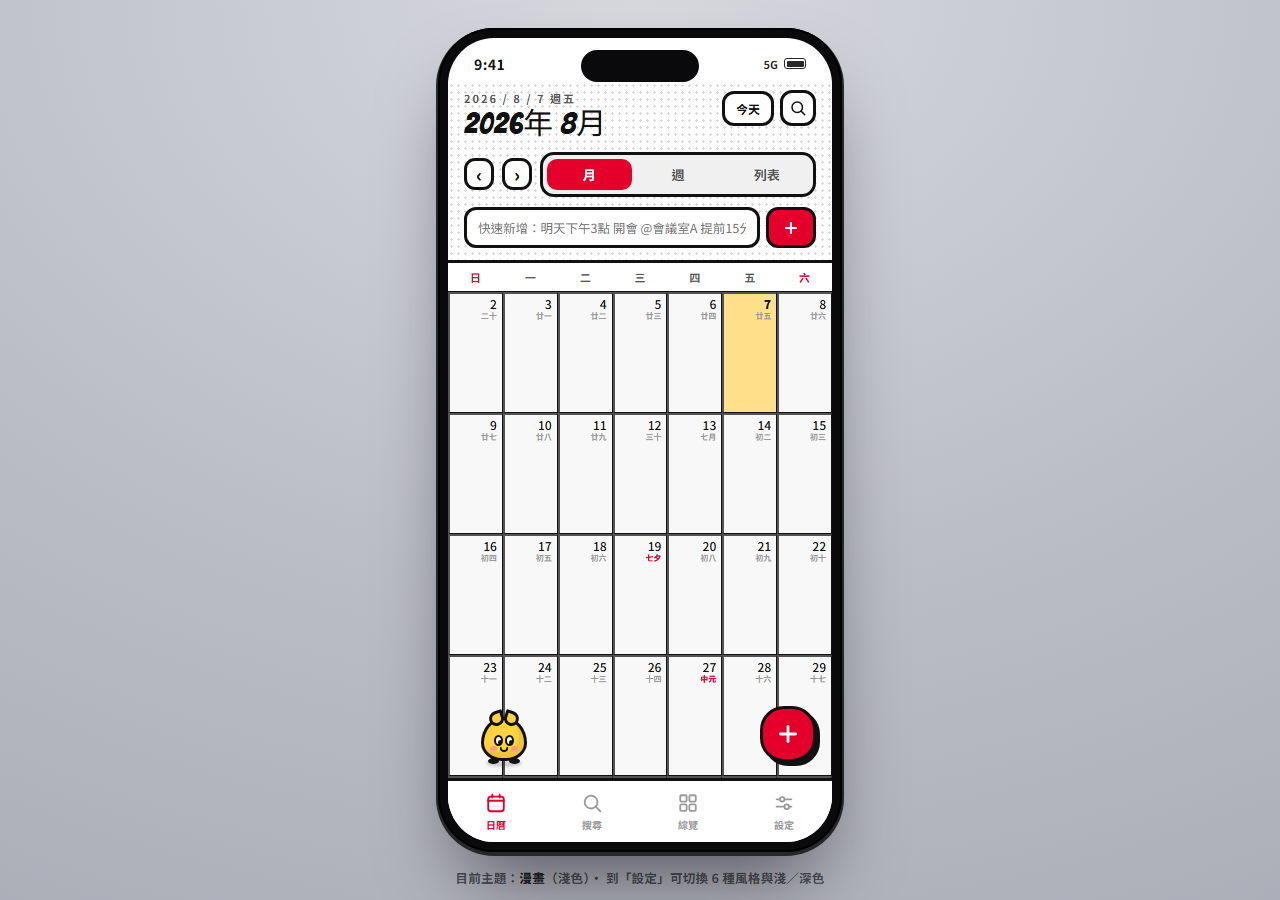
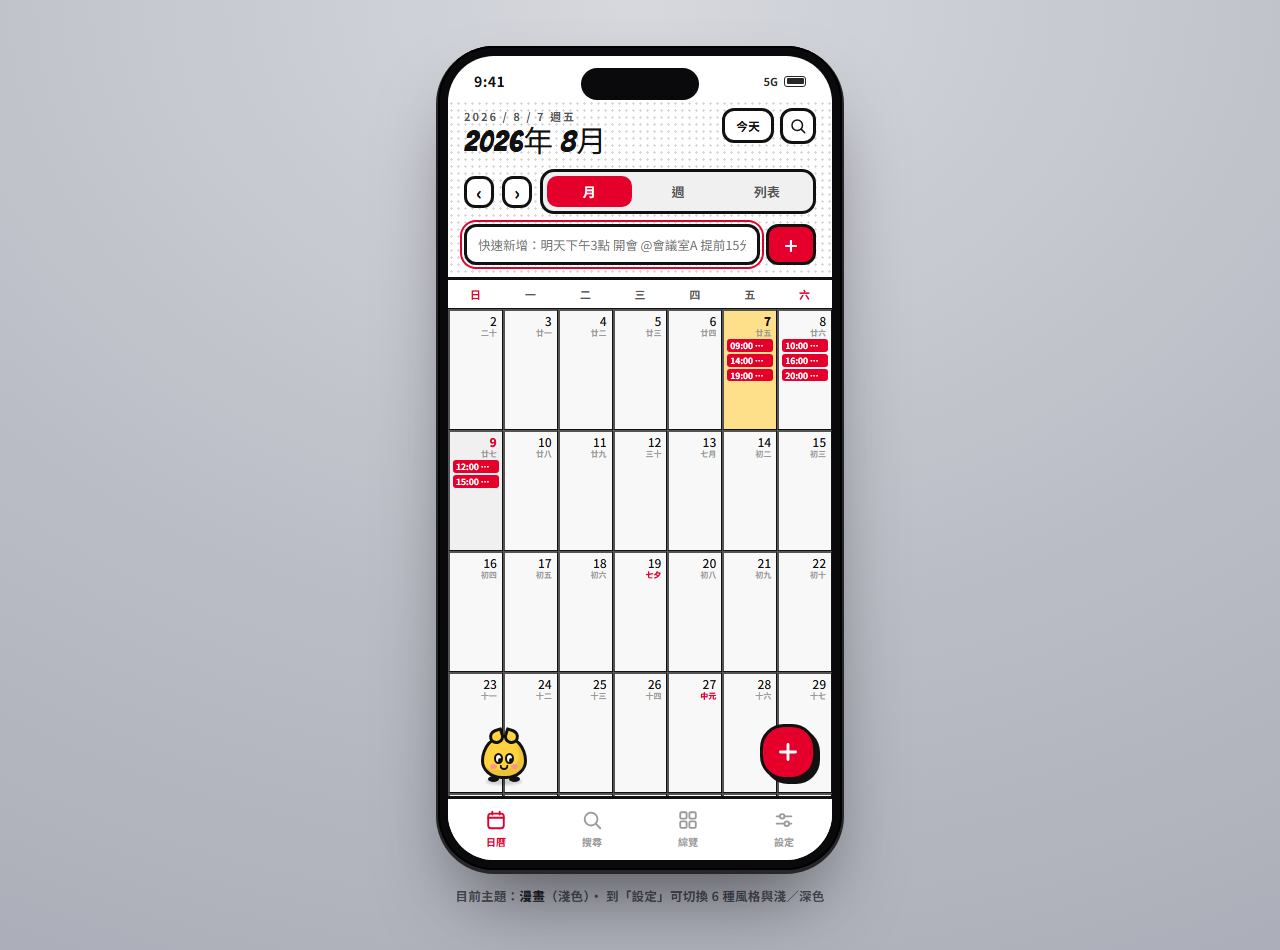
docs(readme): populate the calendar and add the week view
The month shot was an empty calendar, which showed the chrome but not
the product. It now carries real events, entered through the app's own
natural-language quick add, plus the 7-column week grid.

Note on method: the settings screen lists 開發／示範資料控制 under
尚未搬移, so the demo-data importer is not in this build to use — the
events were typed into the quick-add field instead, which exercises a
shipped feature rather than a scaffold.

diff --git a/README.md b/README.md
@@ -8,8 +8,13 @@ DayPop 是以手機為主的個人日曆 PWA。目前正在把 Claude Design 匯
 
 ![月檢視](docs/screenshots/month.png)
 
-月檢視：連續捲動的月格，附農曆與節日（七夕、中元等），今日高亮，
-上方是月／週／列表切換與自然語言快速新增。
+月檢視：連續捲動的月格，附農曆與節日（七夕、中元等），今日高亮。
+畫面中的行程全部是用上方那一行「快速新增」打自然語言加進去的，例如
+`今天下午2點 專案驗收`、`明天上午10點 牙醫回診`。
+
+![週檢視](docs/screenshots/week.png)
+
+週檢視：7 欄時間格，可拖曳改時間、拖曳邊緣調長度、橫向拖曳換日，皆吸附 15 分鐘。
 
 六套外觀主題 × 淺／深色，於「設定」即時切換：
 
